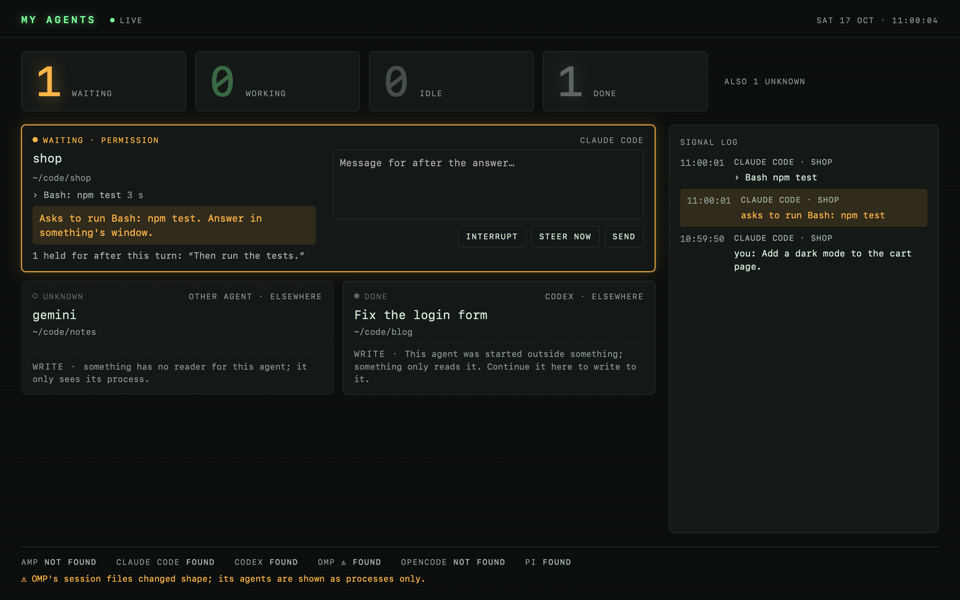
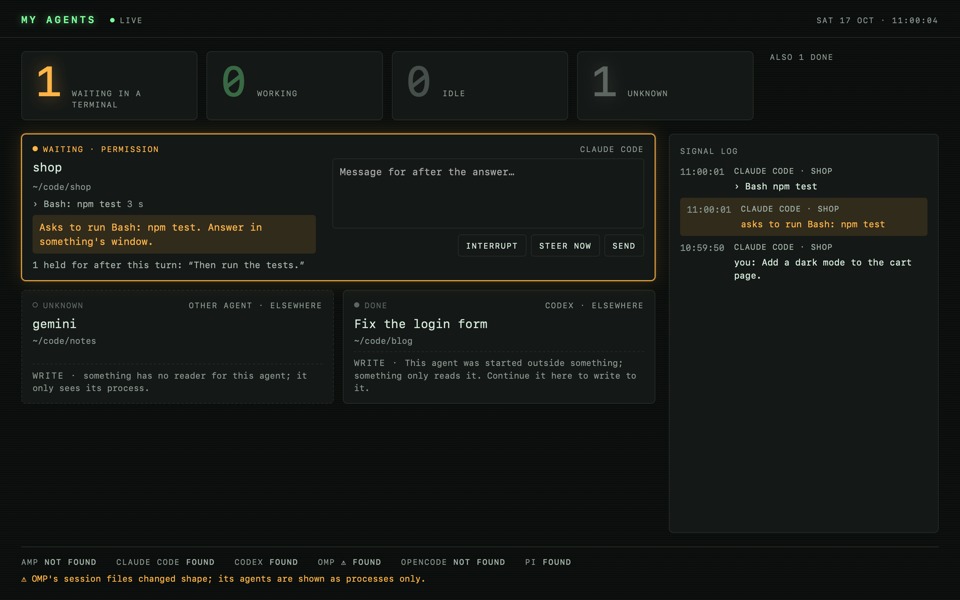
Picture fixes for B3.P1
- Animations land without a screen: Look.animate plays a change through
  NSAnimationContext and, a quarter second after its end, lands whatever
  the display's refresh did not (a sleeping display or a hidden window
  stalls AppKit's frame and alpha animations), then calls its completion
  once. The card's grow and shrink, the sticker's snap, the toast, the
  arrival, the stopped cover and the welcome's step back use it: c2-c10
  draw the card again, f5 its toasts.
- The show, assistant, build and trust stages list the spaces in the
  mockup's groups; the assistant stage shows the mockup's moment around
  the open space's live eyes. b6 has a builder, so its suggestions are
  live, in their normal ink.
- Info starts under the toolbar (allowsFullHeightLayout false): the
  toolbar is one band; the pictures compose each vibrant column by its
  part below the title bar.
- Settings' toolbar items are borderless, their symbols 14 pt
  (offscreen pictures still draw the system's boxed tabs: hand trial).
- My agents counts waiting in a terminal / working / idle / unknown
  (rule 3), two by two in a narrow window; preview redrawn.
- The pointing pill sits under the frame's bottom left corner; the quick
  session chip is centred on the part's bottom edge, its check in ink3.
- Medium weight for Settings' and the toast's buttons; Info's rows
  loosened toward the mockup's 24 pt.
- App budget set to the measured 16,158 lines (Emi, 24 Oct 2026).
[…]

diff --git a/Tests/somethingTests/Acceptance/Stage.swift b/Tests/somethingTests/Acceptance/Stage.swift
@@ -45,12 +45,19 @@ final class Stage {
     }
 
     let home: Home
+    /// Whether the window lists the spaces in the mockup's groups: the screens of a space at work (show, assistant,
+    /// build, trust) are drawn with the sidebar the mockup shows them with.
+    let grouped: Bool
+    /// Whether the other rows show the mockup's moment while the open space's row follows its live assistant.
+    let lively: Bool
 
     /// A home named `something-accept-<area>-…` in $TMPDIR, with every space written; `remove()` deletes it.
     init(_ area: String) throws {
         NSApplication.shared.setActivationPolicy(.prohibited)
         Look.register(fonts: Home.share.appendingPathComponent("fonts"))   // as the app does at start
         home = Home(prefix: "something-accept-\(area)-")
+        grouped = ["show", "assistant", "build", "trust"].contains(area)
+        lively = area == "assistant"
         try Library.prepare(home.places)
         for (name, _) in Stage.templates {
             try home.space(name, try String(contentsOf: Home.share.appendingPathComponent("templates/\(name).html"), encoding: .utf8))
@@ -90,9 +97,16 @@ final class Stage {
     func window(_ size: NSSize = Size.main) -> (shell: Shell, library: Library, info: Info) {
         let ask = FakeAsk()
         let library = Library(places: home.places, ask: ask, share: Home.share), info = Info(places: home.places, ask: ask)
+        if grouped { library.preferences.groups = Stage.groups.map { Preferences.Group(name: $0.0, spaces: $0.1) } }
         library.relist()
         let shell = Shell(library: library, info: info, assistant: AssistantModel(engine: home.engine(), places: home.places), autosave: false)
         shell.window.setContentSize(size)
+        if lively, let host = shell.split.splitViewItems[0].viewController as? NSHostingController<SidebarView> {
+            let own = host.rootView.eyes
+            host.rootView = SidebarView(library: library, assistant: host.rootView.assistant, eyes: { [unowned library] in
+                library.selection == .space($0) ? own($0) : Stage.moment[$0] ?? own($0)
+            })
+        }
         return (shell, library, info)
     }
 
@@ -143,17 +157,21 @@ enum Picture {
     /// Draws the whole window of `shell`, title bar and toolbar included, into `name`.png at 2x; its lights gray when
     /// it lost the keys (`keyed` false).
     static func window(_ shell: Shell, library: Library, web: WKWebView?, _ name: String, root: URL, keyed: Bool = true) async throws {
-        // Below the title bar, as the columns' own contents start.
-        let top = shell.window.frame.height - shell.window.contentLayoutRect.maxY
         let inspector = try #require(shell.inspector.viewController as? NSHostingController<InspectorView>)
         let sidebar = try #require(shell.split.splitViewItems[0].viewController as? NSHostingController<SidebarView>)
         let columns: [(item: NSSplitViewItem, view: NSView)] = [
             (shell.split.splitViewItems[0], NSHostingView(rootView: sidebar.rootView)),
             (shell.inspector, NSHostingView(rootView: inspector.rootView)),
         ].filter { !$0.0.isCollapsed }
+        // A column's part below the title bar: all of a full-height one but the bar, all of one that starts under it.
+        func shown(_ column: NSView) -> NSRect {
+            var place = column.convert(column.bounds, to: nil)
+            place.size.height = min(place.maxY, shell.window.contentLayoutRect.maxY) - place.minY
+            return place
+        }
         let offscreens = columns.map { column in
-            let offscreen = Offscreen(column.view), bounds = column.item.viewController.view.bounds
-            offscreen.window.setContentSize(NSSize(width: max(bounds.width, 232), height: max(bounds.height - top, 100)))
+            let offscreen = Offscreen(column.view), place = shown(column.item.viewController.view)
+            offscreen.window.setContentSize(NSSize(width: max(place.width, 232), height: max(place.height, 100)))
             return offscreen
         }
         // SwiftUI and WebKit draw on the run loop.
@@ -167,8 +185,7 @@ enum Picture {
             disguise(column.view, root.path)
             let drawn = try bitmap(column.view.bounds.size)
             selected(column.view) { column.view.cacheDisplay(in: column.view.bounds, to: drawn) }
-            var place = column.item.viewController.view.convert(column.item.viewController.view.bounds, to: frame)
-            place.size.height -= top
+            let place = frame.convert(shown(column.item.viewController.view), from: nil)
             return (drawn, place)
         }
         // The page says the home as a person's would be, as disguise does for the window's own words.

diff --git a/Sources/something/Settings.swift b/Sources/something/Settings.swift
@@ -427,8 +427,19 @@ enum Found {
 /// height the window takes.
 @MainActor final class SettingsWindow {
     let model: SettingsModel
-    let tabs = NSTabViewController()
+    let tabs = Tabs()
     let window: NSWindow
+
+    /// The tab view controller whose toolbar items are plain, as the mockup draws them: a 14-point symbol and its label,
+    /// no box around each; the preference toolbar marks only the selected one.
+    final class Tabs: NSTabViewController {
+        override func toolbar(_ toolbar: NSToolbar, itemForItemIdentifier itemIdentifier: NSToolbarItem.Identifier,
+                              willBeInsertedIntoToolbar flag: Bool) -> NSToolbarItem? {
+            let item = super.toolbar(toolbar, itemForItemIdentifier: itemIdentifier, willBeInsertedIntoToolbar: flag)
+            item?.isBordered = false
+            return item
+        }
+    }
 
     init(_ model: SettingsModel) {
         self.model = model
@@ -440,7 +451,8 @@ enum Found {
             page.title = tab.label
             let item = NSTabViewItem(viewController: page)
             (item.label, item.identifier) = (tab.label, tab.rawValue)
-            item.image = NSImage(systemSymbolName: tab.symbol, accessibilityDescription: tab.label)
+            item.image = NSImage(systemSymbolName: tab.symbol, accessibilityDescription: tab.label)?
+                .withSymbolConfiguration(NSImage.SymbolConfiguration(pointSize: 14, weight: .regular))
             tabs.addTabViewItem(item)
         }
         window = NSWindow(contentViewController: tabs)
@@ -471,7 +483,7 @@ struct SettingsPage: View {
                 HStack(spacing: 8) {
                     Image(systemName: "info.circle").font(.system(size: 11))
                     Text("To change a menu’s key, use System Settings › Keyboard › App Shortcuts.").frame(maxWidth: .infinity, alignment: .leading)
-                    Button("Open Keyboard Settings…", action: model.keyboard).buttonStyle(Secondary()).font(Look.font(.ui, size: 12.5, weight: .semibold).ui)
+                    Button("Open Keyboard Settings…", action: model.keyboard).buttonStyle(Secondary()).font(Look.font(.ui, size: 12.5, weight: .medium).ui)
                 }
                 .font(Look.small.font.ui).foregroundStyle(Look.Token.ink3.ui).padding(.horizontal, 4)
             }
@@ -577,7 +589,7 @@ struct RowControl: View {
             Button(action: run) {
                 if let symbol { Label(title, systemImage: symbol) } else { Text(title) }
             }
-            .buttonStyle(Secondary()).font(Look.font(.ui, size: 12.5, weight: .semibold).ui).disabled(!enabled).opacity(enabled ? 1 : 0.45)
+            .buttonStyle(Secondary()).font(Look.font(.ui, size: 12.5, weight: .medium).ui).disabled(!enabled).opacity(enabled ? 1 : 0.45)
         case .locked(let word):
             Label(word, systemImage: "lock").labelStyle(Locked()).accessibilityLabel("\(row.title): \(word), cannot be changed")
         }
@@ -682,7 +694,7 @@ private struct AgentsList: View {
         HStack(spacing: 10) {
             Text(model.lookedLine).font(Look.small.font.ui).foregroundStyle(Look.Token.ink3.ui).frame(maxWidth: .infinity, alignment: .leading)
             Button { model.again() } label: { Label("Look Again", systemImage: "arrow.clockwise") }
-                .buttonStyle(Secondary()).font(Look.font(.ui, size: 12.5, weight: .semibold).ui).disabled(model.found == nil)
+                .buttonStyle(Secondary()).font(Look.font(.ui, size: 12.5, weight: .medium).ui).disabled(model.found == nil)
         }
         .padding(.horizontal, 4)
     }

diff --git a/Sources/something/QuickFrame.swift b/Sources/something/QuickFrame.swift
@@ -14,7 +14,7 @@ final class QuickFrame: NSView {
     private(set) var rects: [CGRect]
     private var timer: Timer?, asking = false
 
-    /// The chip: 24 high, rounded 12, 8 points before its symbol and 10 after its words; 10 under the part's frame.
+    /// The chip: 24 high, rounded 12, 8 points before its symbol and 10 after its words; centred on the part's bottom edge.
     static let chipHeight: CGFloat = 24
 
     init(_ quick: AssistantModel.Quick, over space: SpaceView) {
@@ -127,13 +127,13 @@ final class QuickFrame: NSView {
         text.draw(at: CGPoint(x: box.minX + 7 + 13 + 6, y: box.midY - text.size().height / 2))
     }
 
-    /// Where the chip goes under the frame `r`: its right edge with the frame's, 10 points under it, 10 points off the
-    /// page's sides and 34 off its bottom.
+    /// Where the chip goes on the frame `r`, as the mockup pins it: centred on the frame's bottom edge, 10 points off
+    /// the page's sides and 34 off its bottom.
     func chipBox(under r: CGRect) -> CGRect {
         let text = NSAttributedString(string: chip, attributes: [.font: Look.font(.ui, size: 11.5, weight: .medium)])
         let width = 8 + 12 + 6 + ceil(text.size().width) + 10
-        return CGRect(x: max(10, min(bounds.width - width - 10, r.maxX - width)), y: min(bounds.height - 34, r.maxY + 10),
-                      width: width, height: Self.chipHeight)
+        return CGRect(x: max(10, min(bounds.width - width - 10, r.midX - width / 2)),
+                      y: min(bounds.height - 34, r.maxY - Self.chipHeight / 2), width: width, height: Self.chipHeight)
     }
 
     private func drawChip(under r: CGRect) {
@@ -149,7 +149,7 @@ final class QuickFrame: NSView {
         }
         let symbol = NSImage(systemSymbolName: ended ? "checkmark" : "bolt", accessibilityDescription: nil)?
             .withSymbolConfiguration(.init(pointSize: 10, weight: .semibold)) ?? NSImage()
-        PointOverlay.tinted(symbol, (ended ? Look.Token.ok : Look.Token.ink2).color)
+        PointOverlay.tinted(symbol, (ended ? Look.Token.ink3 : Look.Token.ink2).color)
             .draw(in: CGRect(x: box.minX + 8, y: box.midY - 6, width: 12, height: 12), from: .zero, operation: .sourceOver, fraction: 1,
                   respectFlipped: true, hints: nil)
         let text = NSAttributedString(string: chip, attributes: [.font: Look.font(.ui, size: 11.5, weight: .medium),

diff --git a/share/templates/agents.html b/share/templates/agents.html
@@ -56,8 +56,9 @@
 
   /* Four counters: waiting first, because waiting is what needs the person. */
   /* Each counter is a numeral with its label on the same baseline: an instrument, not an empty box. */
-  .counters { display: flex; flex-wrap: wrap; align-items: center; gap: 12px; }
-  .counter { flex: 1 1 0; min-width: 140px; max-width: 220px; display: flex; align-items: baseline; gap: 14px; background: var(--panel); border: 1px solid var(--edge);
+  /* Two by two in a narrow window, one row of four in a wide one. */
+  .counters { display: grid; grid-template-columns: repeat(auto-fit, minmax(220px, 1fr)); gap: 12px; }
+  .counter { min-width: 0; display: flex; align-items: baseline; gap: 14px; background: var(--panel); border: 1px solid var(--edge);
              border-radius: 6px; padding: 10px 18px 12px; }
   .counter b { font-size: 56px; line-height: 1; font-weight: 500; font-variant-numeric: tabular-nums; }
   .counter.zero b { opacity: .35; }
@@ -153,10 +154,10 @@
     <span class="label clock" id="clock"></span>
   </header>
   <section class="counters" aria-label="Counts">
-    <div class="counter" data-count="waiting"><b class="t-waiting">–</b><span class="label">Waiting</span></div>
+    <div class="counter" data-count="waiting"><b class="t-waiting">–</b><span class="label">Waiting in a terminal</span></div>
     <div class="counter" data-count="working"><b class="t-working">–</b><span class="label">Working</span></div>
     <div class="counter" data-count="idle"><b class="t-idle">–</b><span class="label">Idle</span></div>
-    <div class="counter" data-count="done"><b class="t-done">–</b><span class="label">Done</span></div>
+    <div class="counter" data-count="unknown"><b class="t-unknown">–</b><span class="label">Unknown</span></div>
     <div class="label" id="others" hidden></div>
   </section>
   <p id="problem" role="alert" hidden></p>
@@ -289,7 +290,7 @@
       node.querySelector("b").textContent = n;
       node.classList.toggle("zero", n === 0);
     });
-    const others = ["error", "interrupted", "unknown"].filter((w) => counts[w]).map((w) => `${counts[w]} ${w}`);
+    const others = ["error", "interrupted", "done"].filter((w) => counts[w]).map((w) => `${counts[w]} ${w}`);
     $("others").hidden = !others.length;
     $("others").textContent = "Also " + others.join(" · ");
 

diff --git a/Tests/somethingTests/Acceptance/AcceptanceShell.swift b/Tests/somethingTests/Acceptance/AcceptanceShell.swift
@@ -141,7 +141,9 @@ struct AcceptanceShell {
         shell.showInfo(true)
         shell.window.layoutIfNeeded()
         #expect(shell.infoShown && info.content == .info && (shell.controls[Shell.info] as? ToolButton)?.pressed == true)
-        #expect(shell.inspector.viewController.view.frame.width == 320 && shell.inspector.viewController.view.frame.height == 760, "full height")
+        // Full height under the toolbar, which stays one band across the window, as the mockup draws it.
+        let under = shell.window.contentLayoutRect.height, docked = shell.inspector.viewController.view.frame
+        #expect(docked.width == 320 && docked.height == under && under > 700, "full height under the toolbar: \(docked.height) of \(under)")
         #expect(agents.web.frame.width == center - 320, "the page narrows beside Info: \(agents.web.frame.width)")
         #expect(info.space?.name == "agents" && info.waiting == 1 && model.place.space == "agents")
         #expect(model.messageCount == 2 && model.resumes && !model.canSleep)
@@ -195,7 +197,16 @@ struct AcceptanceShell {
         for file in try FileManager.default.contentsOfDirectory(at: stage.home.places.spaces, includingPropertiesForKeys: nil) {
             try FileManager.default.removeItem(at: file)
         }
+        // The mockup's newcomer has an agent to build with: the suggestions are live, in their normal ink.
+        let bin = stage.home.root.appendingPathComponent("bin"), claude = bin.appendingPathComponent("claude")
+        try FileManager.default.createDirectory(at: bin, withIntermediateDirectories: true)
+        try AssistantTests.fake.write(to: claude, atomically: true, encoding: .utf8)
+        try FileManager.default.setAttributes([.posixPermissions: 0o755], ofItemAtPath: claude.path)
         let (shell, library, _) = stage.window()
+        let model = shell.assistant
+        model.engine.changed = { model.refresh() }
+        model.engine.lookAgain()
+        #expect(await wait(until: { model.kind == "claude" }))
         library.preferences.groups = Stage.groups.map { Preferences.Group(name: $0.0, spaces: []) }
         #expect(library.entries.isEmpty && library.selection == .newSpace)
         #expect(library.stops() == [.newSpace], "no header shows while no space is listed")

diff --git a/Sources/something/Shell.swift b/Sources/something/Shell.swift
@@ -66,6 +66,8 @@ final class Shell: NSObject, NSToolbarDelegate, NSWindowDelegate {
         content.view = center
         inspector = NSSplitViewItem(inspectorWithViewController: InfoController(rootView: InspectorView(info: info, library: library, assistant: assistant)))
         (inspector.minimumThickness, inspector.maximumThickness) = (320, 320)
+        // The toolbar stays one band across the window: the panel begins under it, as the mockup draws it.
+        inspector.allowsFullHeightLayout = false
         [sidebar, NSSplitViewItem(viewController: content), inspector].forEach(split.addSplitViewItem)
         window = NSWindow(contentRect: NSRect(x: 0, y: 0, width: 1200, height: 760),
                           styleMask: [.titled, .closable, .miniaturizable, .resizable, .fullSizeContentView], backing: .buffered, defer: false)
@@ -429,13 +431,11 @@ final class Shell: NSObject, NSToolbarDelegate, NSWindowDelegate {
             Self.blur(page, true)
             veil?.alphaValue = 0
         }
-        NSAnimationContext.runAnimationGroup({ context in
-            context.duration = Look.duration(0.5, Look.motion(library.preferences.motion))
-            context.timingFunction = Look.douce.timing
+        Look.animate(Look.duration(0.5, Look.motion(library.preferences.motion)), Look.douce, {
             page?.animator().alphaValue = back ? 0.35 : 1
             sidebar.animator().alphaValue = back ? 0.7 : 1
             veil?.animator().alphaValue = back ? 1 : 0
-        }, completionHandler: back ? nil : { [weak self] in
+        }, done: back ? nil : { [weak self] in
             // The blur goes once the page is back in full, so that it never snaps off a page still faded.
             if self?.welcoming == nil { Self.blur(page, false) }
             guard let veil else { return }

diff --git a/Sources/something/Look.swift b/Sources/something/Look.swift
@@ -224,6 +224,34 @@ enum Look {
     static func duration(_ calm: TimeInterval, _ motion: Motion) -> TimeInterval {
         motion == .reduced ? 0 : calm
     }
+
+    /// Plays `changes` (made through `animator()`) in `duration` on `curve`, then calls `done` once. AppKit moves a
+    /// view's frame and alpha on the display's refresh, which stops while the display sleeps or the window is hidden:
+    /// a quarter second after the end, whatever has not landed lands at once, so no state waits for a screen.
+    /// `settle` are the views whose stalled animations are taken off when it lands that way.
+    static func animate(_ duration: TimeInterval, _ curve: Curve, implicit: Bool = false, settle: [NSView] = [],
+                        _ changes: @escaping () -> Void, done: (() -> Void)? = nil) {
+        final class Once { var over = false }
+        let once = Once()
+        let finish = {
+            guard !once.over else { return }
+            once.over = true
+            done?()
+        }
+        NSAnimationContext.runAnimationGroup({ context in
+            (context.duration, context.timingFunction, context.allowsImplicitAnimation) = (duration, curve.timing, implicit)
+            changes()
+        }, completionHandler: finish)
+        DispatchQueue.main.asyncAfter(deadline: .now() + duration + 0.25) {
+            guard !once.over else { return }
+            settle.forEach { $0.layer?.removeAllAnimations() }
+            NSAnimationContext.runAnimationGroup { context in
+                (context.duration, context.allowsImplicitAnimation) = (0, false)
+                changes()
+            }
+            finish()
+        }
+    }
 }
 
 extension Look.Token {

diff --git a/Sources/something/Glass.swift b/Sources/something/Glass.swift
@@ -129,10 +129,9 @@ final class Glass: WindowLayer {
         let to = stickerFrame, duration = Look.duration(0.42, Look.motion(motion()))
         guard duration > 0, from != to else { return say() }
         (sticker.frame, snapping) = (from, true)
-        NSAnimationContext.runAnimationGroup({ context in
-            (context.duration, context.timingFunction, context.allowsImplicitAnimation) = (duration, Look.out.timing, true)
+        Look.animate(duration, Look.out, implicit: true, settle: [sticker], { [sticker] in
             sticker.animator().frame = to
-        }, completionHandler: { [weak self] in
+        }, done: { [weak self] in
             guard let self else { return }
             snapping = false
             place()
@@ -226,12 +225,12 @@ final class Glass: WindowLayer {
         moves += 1
         let move = moves
         say()
-        NSAnimationContext.runAnimationGroup({ context in
-            (context.duration, context.timingFunction, context.allowsImplicitAnimation) = (duration, Look.douce.timing, true)
-            card.animator().frame = open ? grownFrame : shrunk
+        let target = open ? grownFrame : shrunk
+        Look.animate(duration, Look.douce, implicit: true, settle: [card, sticker], { [card, sticker] in
+            card.animator().frame = target
             card.animator().alphaValue = open ? 1 : 0
             sticker.animator().alphaValue = open ? 0 : 1
-        }, completionHandler: { [weak self] in
+        }, done: { [weak self] in
             guard let self, move == moves else { return }
             morphing = false
             if grown == false { (card.isHidden, model.folding) = (true, false) }

diff --git a/Sources/something/Inspector.swift b/Sources/something/Inspector.swift
@@ -382,7 +382,7 @@ struct InspectorView: View {
                     .toggleStyle(SwitchStyle()).labelsHidden()
             }
         }
-        .padding(.vertical, Look.row * 0.34)
+        .padding(.vertical, Look.row * 0.4)
         // Read as one line, its switch with it: "See your agents, …, Allowed".
         .accessibilityElement(children: .combine)
     }
@@ -392,7 +392,7 @@ struct InspectorView: View {
         let now = info.clock(), group = library.preferences.group(of: space.name), groups = library.preferences.groups.map(\.name)
         return VStack(alignment: .leading, spacing: 9) {
             if let about = info.about { Text(about).foregroundStyle(Look.Token.ink2.ui).fixedSize(horizontal: false, vertical: true) }
-            Grid(alignment: .leading, horizontalSpacing: 14, verticalSpacing: Look.row * 0.24) {
+            Grid(alignment: .leading, horizontalSpacing: 14, verticalSpacing: Look.row * 0.32) {
                 GridRow {
                     Text("Group").foregroundStyle(Look.Token.ink3.ui)
                     // The groups as the sidebar's Show in Group has them: no "None", a space leaves a group only for
@@ -462,7 +462,7 @@ struct InspectorView: View {
     }
 
     private func pairs(_ lines: [(String, String)]) -> some View {
-        Grid(alignment: .leading, horizontalSpacing: 14, verticalSpacing: Look.row * 0.24) {
+        Grid(alignment: .leading, horizontalSpacing: 14, verticalSpacing: Look.row * 0.32) {
             ForEach(lines, id: \.0) { row($0.0, $0.1) }
         }
     }

diff --git a/Sources/something/PointOverlay.swift b/Sources/something/PointOverlay.swift
@@ -350,10 +350,11 @@ final class PointOverlay: NSView {
     private func frame(_ part: Pointing.Part, words: String?, ink: Look.Token, at box: CGRect?) {
         let r = box ?? part.rect.insetBy(dx: -Self.pad, dy: -Self.pad)
         Self.corners(r, ink: ink)
-        // The pill: 21 high, 8 points each side, rounded 6, in the action's colours.
+        // The pill: 21 high, 8 points each side, rounded 6, in the action's colours, under the frame's bottom left
+        // corner as the mockup puts it; above it only where the page has no room below.
         guard let words else { return }
         let text = NSAttributedString(string: words, attributes: [.font: Look.font(.ui, size: 11, weight: .semibold), .foregroundColor: Look.Token.actfg.color])
-        let size = text.size(), pill = CGRect(x: r.minX, y: part.rect.minY < 36 ? r.maxY + 6 : r.minY - 6 - 21, width: ceil(size.width) + 16, height: 21)
+        let size = text.size(), pill = CGRect(x: r.minX, y: r.maxY + 6 + 21 <= bounds.height ? r.maxY + 6 : r.minY - 6 - 21, width: ceil(size.width) + 16, height: 21)
         Look.Token.act.color.setFill()
         NSBezierPath(roundedRect: pill, xRadius: 6, yRadius: 6).fill()
         text.draw(at: CGPoint(x: pill.minX + 8, y: pill.midY - size.height / 2))

diff --git a/Sources/something/Toast.swift b/Sources/something/Toast.swift
@@ -67,7 +67,7 @@ final class Toast: NSView {
             button.isBordered = false
             // A click acts; no key reaches it, and it never draws the focus away from where the person types.
             button.refusesFirstResponder = true
-            (button.font, button.contentTintColor) = (Look.font(.ui, size: 12.5, weight: .semibold), Look.Token.bg.color)
+            (button.font, button.contentTintColor) = (Look.font(.ui, size: 12.5, weight: .medium), Look.Token.bg.color)
             (button.target, button.action) = (self, #selector(act))
             button.heightAnchor.constraint(equalToConstant: 26).isActive = true
         }
@@ -110,10 +110,7 @@ final class Toast: NSView {
             done?()
             return
         }
-        NSAnimationContext.runAnimationGroup({ context in
-            context.duration = duration
-            context.timingFunction = Look.out.timing
-            bottom?.animator().constant = constant
-        }, completionHandler: done)
+        let bottom = bottom
+        Look.animate(duration, Look.out, { bottom?.animator().constant = constant }, done: done)
     }
 }

diff --git a/Tests/somethingTests/Acceptance/AcceptanceShow.swift b/Tests/somethingTests/Acceptance/AcceptanceShow.swift
@@ -349,10 +349,12 @@ struct AcceptanceShow {
             func buttons(_ view: NSView) -> [NSButton] { [view as? NSButton].compactMap { $0 } + view.subviews.flatMap(buttons) }
             return (toast.words, buttons(toast).first?.title)
         }
-        /// Waits for the page to load again after a change of its file.
+        /// Waits for the page to load again after a change of its file, and for the last toast to have risen in place.
         func reloaded(after loads: Int) async {
             #expect(await wait(until: { brief.loads > loads && !brief.web.isLoading && brief.frame != nil }), "the page did not reload")
             await Picture.settle(brief)
+            #expect(await wait(5) { shell.layer.subviews.compactMap { $0 as? Toast }.last { $0.shown }?.bottom?.constant == -22 },
+                    "the toast rose")
         }
 
         // The turn, as the assistant says it begins and ends: Daily brief kept as it was, then as the turn left it.
